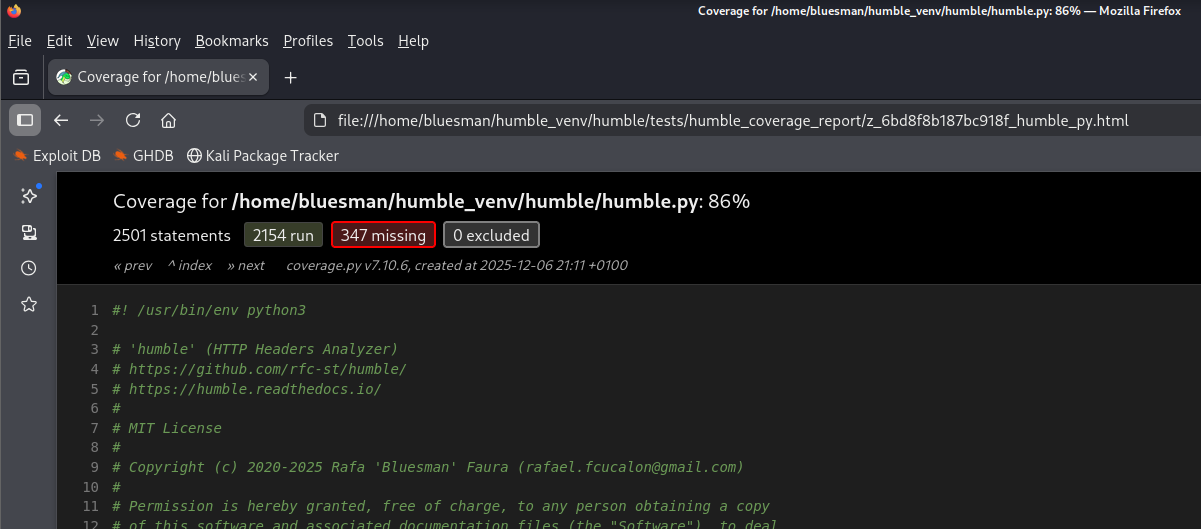
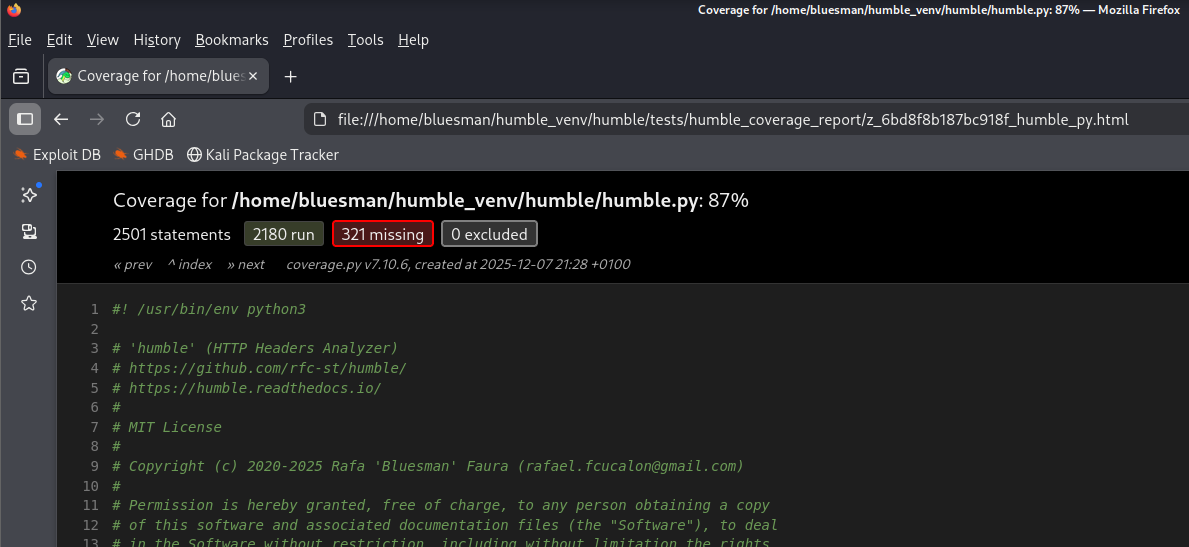
Feature: 1 new unit test and 87% code coverage

diff --git a/tests/test_basic.py b/tests/test_basic.py
@@ -25,6 +25,7 @@ HUMBLE_INPUT_DIR = path.join(HUMBLE_PROJECT_ROOT, 'samples')
 HUMBLE_INPUT_FILE = path.abspath(path.join(HUMBLE_INPUT_DIR,
                                            'github_input_file.txt'))
 HUMBLE_INPUT_URL = 'https://github.com'
+HUMBLE_INSECURE_INPUT_URL = 'http://github.com'
 HUMBLE_L10N_DIR = path.join(HUMBLE_PROJECT_ROOT, 'l10n')
 HUMBLE_L10N_FILE = ('details.txt', 'details_es.txt')
 HUMBLE_MAIN_FILE = path.abspath(path.join(HUMBLE_TESTS_DIR, '..', 'humble.py'))
@@ -37,6 +38,8 @@ TEST_CFGS = {
     'test_help': (['-h'], 'want to contribute?'),
     'test_all_headers': (['-if', HUMBLE_HEADERS_FILE, '-u', HUMBLE_INPUT_URL],
                          'Input:'),
+    'test_unsafe_all_headers': (['-if', HUMBLE_HEADERS_FILE, '-u',
+                                 HUMBLE_INSECURE_INPUT_URL], 'Input:'),
     'test_brief_analysis': (['-u', TEST_URL, '-b'], 'Analysis Grade:'),
     'test_cicd_analysis': (['-u', TEST_URL, '-cicd'], 'Analysis Grade'),
     'test_detailed_analysis': (['-u', TEST_URL], 'Analysis Grade:'),
@@ -79,9 +82,10 @@ TEST_CFGS = {
                         'Selected the User-Agent'),
     'test_user_agent_list': (['-ua', '0'], 'source: '),
 }
-TEST_SUMMS = ('[test_help]', '[test_all_headers]', '[test_brief_analysis]',
-              '[test_cicd_analysis]', '[test_detailed_analysis]',
-              '[test_export_csv]', '[test_export_html]', '[test_export_json]',
+TEST_SUMMS = ('[test_help]', '[test_all_headers]', '[test_unsafe_all_headers]',
+              '[test_brief_analysis]', '[test_cicd_analysis]',
+              '[test_detailed_analysis]', '[test_export_csv]',
+              '[test_export_html]', '[test_export_json]',
               '[test_export_json_brief]', '[test_export_pdf]',
               '[test_export_xlsx]', '[test_export_xml]',
               '[test_fingerprint_groups]', '[test_fingerprint_term]',

diff --git a/humble.py b/humble.py
@@ -3883,7 +3883,7 @@ print("")
 # when exporting an analysis to PDF, certain reference URLs were too long and
 # caused formatting issues. After researching how to fix these errors, I found
 # https://github.com/lazd/mdn.io, which uses DuckDuckGo's Bang! to redirect to
-# the first search result associated with 'Mozilla Network Documentation.'
+# the first search result associated with 'Mozilla Developer Network'.
 #
 # E.g., from https://developer.mozilla.org/en-US/docs/Web/HTTP/Reference/\
 # Headers/Cross-Origin-Embedder-Policy to https://mdn.io/Cross-Origin-Embedder\

diff --git a/README.md b/README.md
@@ -23,7 +23,7 @@
 <a target="_blank" href="https://github.com/rfc-st/humble/actions/workflows/bandit-security-scan.yml" title="Results of the last analysis of this tool with bandit, for critical or high vulnerabilities"><img src="https://github.com/rfc-st/humble/actions/workflows/bandit-security-scan.yml/badge.svg"></a>
 <a target="_blank" href="https://github.com/rfc-st/humble/actions/workflows/codeql-analysis.yml?query=workflow%3ACodeQL" title="CodeQL security analysis passed"><img src="https://github.com/rfc-st/humble/workflows/CodeQL/badge.svg"></a>
 <a target="_blank" href="https://humble.readthedocs.io/en/latest/" title="humble documentation status"><img src="https://img.shields.io/badge/documentation-passing-32bd50?labelColor=343b41"></a>
-<a target="_blank" href="https://github.com/rfc-st/humble/?tab=readme-ov-file#unit-tests" title="humble code coverage"><img src="https://img.shields.io/badge/code%20coverage-86%25-f9d71c?labelColor=343b41"></a>
+<a target="_blank" href="https://github.com/rfc-st/humble/?tab=readme-ov-file#unit-tests" title="humble code coverage"><img src="https://img.shields.io/badge/code%20coverage-87%25-f9d71c?labelColor=343b41"></a>
 <a target="_blank" href="https://www.bestpractices.dev/projects/9543" title="OpenSSF best practices analysis"><img src="https://www.bestpractices.dev/projects/9543/badge"></a>
 <br />
 <br />
